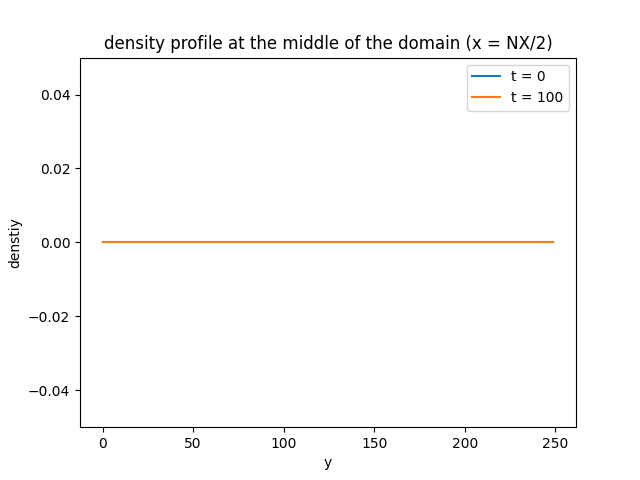
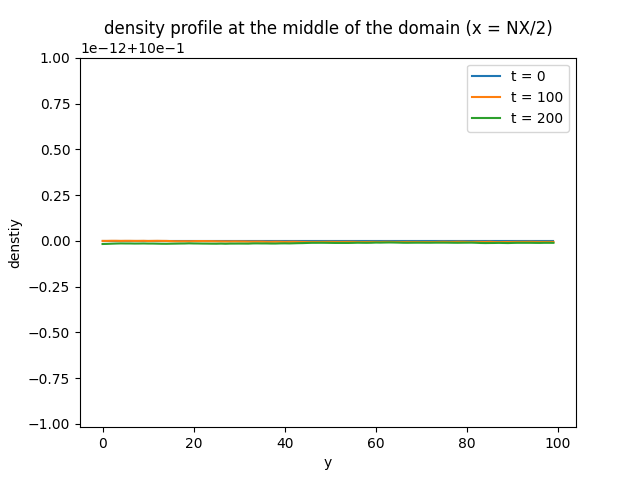
solved boundary conditions in parallel

diff --git a/hpc_fluid_dynamics/lbm_class.py b/hpc_fluid_dynamics/lbm_class.py
@@ -90,10 +90,11 @@ class LBM:
             self.rcoords = self.cartcomm.Get_coords(self.rank)
             self.is_boundary = {
                 'left': self.rcoords[0] == 0,
-                'right': self.rcoords[0] == self.sectsX - 1,
-                'top': self.rcoords[1] == 0,
-                'bottom': self.rcoords[1] == self.sectsY - 1
+                'right': self.rcoords[0] == self.sectsY - 1,
+                'top': self.rcoords[1] == self.sectsX - 1,
+                'bottom': self.rcoords[1] == 0,
             }
+            print(self.rank, self.rcoords, self.is_boundary)
             # where to receive from and where send to 
             sR,dR = self.cartcomm.Shift(1,1)
             sL,dL = self.cartcomm.Shift(1,-1)
@@ -145,7 +146,7 @@ class LBM:
 
             # COMMUNICATE
             if self.parallel:
-                pdf_9xy = Communicate(pdf_9xy,self.cartcomm,self.sd)
+                pdf_9xy = Communicate(pdf_9xy,self.cartcomm,self.sd,self.is_boundary)
 
             # MOMENT UPDATE 
             density_xy = calc_density(pdf_9xy)
@@ -350,7 +351,7 @@ class LBM:
             plt.title("Velocity profile at the middle of the domain (x = NX/2)")
             
         if self.mode == "poiseuille":
-            analytical_solution = [-self.d_p*y*(y - self.NY)/(2*self.viscosity*calc_velocity(self.pdf_9xy).mean(axis=2).sum()) for y in range(self.NY)]
+            analytical_solution = [self.d_p*y*(y - self.NY)/(2*self.viscosity*calc_velocity(self.pdf_9xy).mean(axis=2).sum()) for y in range(self.NY)]
             plt.plot(analytical_solution, label="analytical velocity")
             
         plt.xlabel("y")
@@ -370,7 +371,7 @@ class LBM:
             plt.clf()
 
         if self.mode == "lid":
-            for i in [self.nt//2, self.nt]:
+            for i in [self.nt//2, self.nt-1]:
             # stream plot of the velocity at the last time step
                 plt.streamplot(np.arange(self.NX), np.arange(self.NY), self.velocities[i][:,:,1], self.velocities[i][:,:,0])
                 plt.title("Velocity stream plot at t = "+str(i))

diff --git a/hpc_fluid_dynamics/lbm_utils.py b/hpc_fluid_dynamics/lbm_utils.py
@@ -151,29 +151,33 @@ def streaming(pdf):
     return pdf_t1
 
 
-def Communicate(pdf_9xy,cartcomm,sd):
+def Communicate(pdf_9xy,cartcomm,sd,is_boundary):
     recvbuf = np.zeros(pdf_9xy[:,:,1].shape)
     sR,dR,sL,dL,sU,dU,sD,dD = sd
     # Send to right which is destination rigth (dR) and receive from left which is source right (sR)
     # print(rank,'Right, source',sR,'destination',dR)
     sendbuf = pdf_9xy[:,:,-2].copy() # Send the second last column to dR
     cartcomm.Sendrecv(sendbuf, dR, recvbuf = recvbuf, source = sR)
-    pdf_9xy[:,:,0] = recvbuf # received into the 0th column from sR
+    if not is_boundary["bottom"]:
+        pdf_9xy[:,:,0] = recvbuf # received into the 0th column from sR
     # Send to left and receive from right
     #print(rank,'Left, source',sL,'destination',dL)
     sendbuf = pdf_9xy[:,:,1].copy()
     cartcomm.Sendrecv(sendbuf, dL, recvbuf = recvbuf, source = sL)
-    pdf_9xy[:,:,-1] = recvbuf
+    if not is_boundary["top"]:
+        pdf_9xy[:,:,-1] = recvbuf
     # Send to up and receive from down
     #print(rank,'Up, source',sU,'destination',dU)
     sendbuf = pdf_9xy[:,1,:].copy()
     cartcomm.Sendrecv(sendbuf, dU, recvbuf = recvbuf, source = sU)
-    pdf_9xy[:,-1,:] = recvbuf
+    if not is_boundary["right"]:
+        pdf_9xy[:,-1,:] = recvbuf
     # Send to down and receive from up
     #print(rank,'Down, source',sD,'destination',dD)
     sendbuf = pdf_9xy[:,-2,:].copy()
     cartcomm.Sendrecv(sendbuf, dD, recvbuf = recvbuf, source = sD)
-    pdf_9xy[:,0,:]=recvbuf
+    if not is_boundary["left"]:
+        pdf_9xy[:,0,:]=recvbuf
 #
     return pdf_9xy
 
